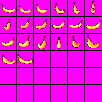
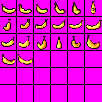
bannana boomerang :)

diff --git a/src/Level/Projectiles/bannanaProjectile.java b/src/Level/Projectiles/bannanaProjectile.java
@@ -17,7 +17,9 @@ import NPCs.Dinosaur;
 public class bannanaProjectile extends Projectile {
         private float speedX;
         private float speedY;
-        private int existenceFrames = 300;
+        private float boomX;
+        private float boomY;
+        private int existenceFrames = 200;
         private int hasDirection = 0;
         private SpriteSheet spriteSheet;
 
@@ -43,30 +45,55 @@ public class bannanaProjectile extends Projectile {
                         if (player.getFacingDirection() == Direction.DOWN && player.getLastWalkingXDirection() == Direction.LEFT) {
                                 speedY =  3.5f;
                                 speedX = -3.5f; 
+
+                                boomY = -3.5f;
+                                boomX = 3.5f;
+
+
                         }
                         else if (player.getFacingDirection() == Direction.DOWN && player.getLastWalkingXDirection() == Direction.RIGHT) {
                                 speedY =  3.5f;
                                 speedX = 3.5f; 
+
+                                boomY = -3.5f;
+                                boomX = -3.5f;
                         }
                         else if (player.getFacingDirection() == Direction.UP && player.getLastWalkingXDirection() == Direction.LEFT) {
                                 speedY =  -3.5f;
-                                speedX = -3.5f; 
+                                speedX = -3.5f;
+
+                                boomY = 3.5f;
+                                boomX = 3.5f;
                         }
                         else if (player.getFacingDirection() == Direction.UP && player.getLastWalkingXDirection() == Direction.RIGHT) {
                                 speedY =  -3.5f;
                                 speedX = 3.5f; 
+
+                                boomY = 3.5f;
+                                boomX = -3.5f;
                         }
                         else if (player.getFacingDirection() == Direction.RIGHT) {
                                 speedX = 3.5f;
+
+                                boomX = -3.5f;
+
                         } 
                         else if (player.getFacingDirection() == Direction.LEFT) {
                                 speedX = -3.5f; 
+
+                                boomX = 3.5f;
                         }
                         else if (player.getFacingDirection() == Direction.UP) {
                                 speedY = -3.5f;
+
+                                boomY = 3.5f;
+
                         }
                          else if (player.getFacingDirection() == Direction.DOWN) {
                             speedY =  3.5f;
+
+                            boomY = -3.5f;
+
     
                         }
                        
@@ -78,86 +105,87 @@ public class bannanaProjectile extends Projectile {
             public HashMap<String, Frame[]> loadAnimations(SpriteSheet spriteSheet) {
                 return new HashMap<String, Frame[]>() {{
                     put("SPIN", new Frame[]{
-                        new FrameBuilder(spriteSheet.getSprite(0, 0), 9)
+                        new FrameBuilder(spriteSheet.getSprite(0, 0), 2)
                             .withScale(3)
                             .withBounds(6, 12, 16, 16)
                             .build(),
-                    new FrameBuilder(spriteSheet.getSprite(0, 1), 5)
+                    new FrameBuilder(spriteSheet.getSprite(0, 1), 2)
                             .withScale(3)
                             .withBounds(6, 12, 16, 16)
                             .build(),
-                    new FrameBuilder(spriteSheet.getSprite(0, 2), 5)
+                    new FrameBuilder(spriteSheet.getSprite(0, 2), 2)
                             .withScale(3)
                             .withBounds(6, 12, 16, 16)
                             .build(),
-                    new FrameBuilder(spriteSheet.getSprite(0, 3), 9)
+                    new FrameBuilder(spriteSheet.getSprite(0, 3), 2)
                             .withScale(3)
                             .withBounds(6, 12, 16, 16)
                             .build(),
-                    new FrameBuilder(spriteSheet.getSprite(0, 4), 5)
+                    new FrameBuilder(spriteSheet.getSprite(0, 4), 2)
                             .withScale(3)
                             .withBounds(6, 12, 16, 16)
                             .build(),
-                        new FrameBuilder(spriteSheet.getSprite(1, 0), 9)
+                        new FrameBuilder(spriteSheet.getSprite(0, 5), 2)
                             .withScale(3)
                             .withBounds(6, 12, 16, 16)
                             .build(),
-                    new FrameBuilder(spriteSheet.getSprite(1, 1), 5)
+                        new FrameBuilder(spriteSheet.getSprite(1, 0), 2)
                             .withScale(3)
                             .withBounds(6, 12, 16, 16)
                             .build(),
-                    new FrameBuilder(spriteSheet.getSprite(1, 2), 5)
+                    new FrameBuilder(spriteSheet.getSprite(1, 1), 2)
                             .withScale(3)
                             .withBounds(6, 12, 16, 16)
                             .build(),
-                    new FrameBuilder(spriteSheet.getSprite(1, 3), 9)
+                    new FrameBuilder(spriteSheet.getSprite(1, 2), 2)
                             .withScale(3)
                             .withBounds(6, 12, 16, 16)
                             .build(),
-                    new FrameBuilder(spriteSheet.getSprite(1, 4), 5)
+                    new FrameBuilder(spriteSheet.getSprite(1, 3), 2)
                             .withScale(3)
                             .withBounds(6, 12, 16, 16)
                             .build(),
-                            new FrameBuilder(spriteSheet.getSprite(2, 0), 9)
+                    new FrameBuilder(spriteSheet.getSprite(1, 4), 2)
                             .withScale(3)
                             .withBounds(6, 12, 16, 16)
                             .build(),
-                    new FrameBuilder(spriteSheet.getSprite(2, 1), 5)
+                            new FrameBuilder(spriteSheet.getSprite(1, 5), 2)
                             .withScale(3)
                             .withBounds(6, 12, 16, 16)
                             .build(),
-                    new FrameBuilder(spriteSheet.getSprite(2, 2), 5)
+                            new FrameBuilder(spriteSheet.getSprite(2, 0), 2)
                             .withScale(3)
                             .withBounds(6, 12, 16, 16)
                             .build(),
-                    new FrameBuilder(spriteSheet.getSprite(2, 3), 9)
+                    new FrameBuilder(spriteSheet.getSprite(2, 1), 2)
                             .withScale(3)
                             .withBounds(6, 12, 16, 16)
                             .build(),
-                    new FrameBuilder(spriteSheet.getSprite(2, 4), 5)
+                    new FrameBuilder(spriteSheet.getSprite(2, 2), 2)
                             .withScale(3)
                             .withBounds(6, 12, 16, 16)
                             .build(),
-                            new FrameBuilder(spriteSheet.getSprite(3, 0), 9)
+                    new FrameBuilder(spriteSheet.getSprite(2, 3), 2)
                             .withScale(3)
                             .withBounds(6, 12, 16, 16)
                             .build(),
-                    new FrameBuilder(spriteSheet.getSprite(3, 1), 5)
+                    new FrameBuilder(spriteSheet.getSprite(2, 4), 2)
                             .withScale(3)
                             .withBounds(6, 12, 16, 16)
                             .build(),
-                    new FrameBuilder(spriteSheet.getSprite(3, 2), 5)
+                            new FrameBuilder(spriteSheet.getSprite(2, 5), 2)
                             .withScale(3)
                             .withBounds(6, 12, 16, 16)
                             .build(),
-                    new FrameBuilder(spriteSheet.getSprite(3, 3), 9)
+                            new FrameBuilder(spriteSheet.getSprite(3, 0), 2)
                             .withScale(3)
                             .withBounds(6, 12, 16, 16)
                             .build(),
-                    new FrameBuilder(spriteSheet.getSprite(3, 4), 5)
+                    new FrameBuilder(spriteSheet.getSprite(3, 1), 2)
                             .withScale(3)
                             .withBounds(6, 12, 16, 16)
                             .build()
+
                 });
                 put("DEFAULT", new Frame[] {
                         new FrameBuilder(spriteSheet.getSprite(0, 0))
@@ -176,9 +204,15 @@ public class bannanaProjectile extends Projectile {
 
                 getProjectileDirection(player);
                 loadAnimations(spriteSheet);
-                moveXHandleCollision(speedX);
-                moveYHandleCollision(speedY);
-
+                if (existenceFrames > 100){
+                        moveXHandleCollision(speedX);
+                        moveYHandleCollision(speedY);
+                }else{
+                        moveXHandleCollision(boomX);
+                        moveYHandleCollision(boomY);
+                }
+                
+                existenceFrames--;
 
                 if (intersects(player)|| this.identity == "enemy") {
                     touchedPlayer(player);
